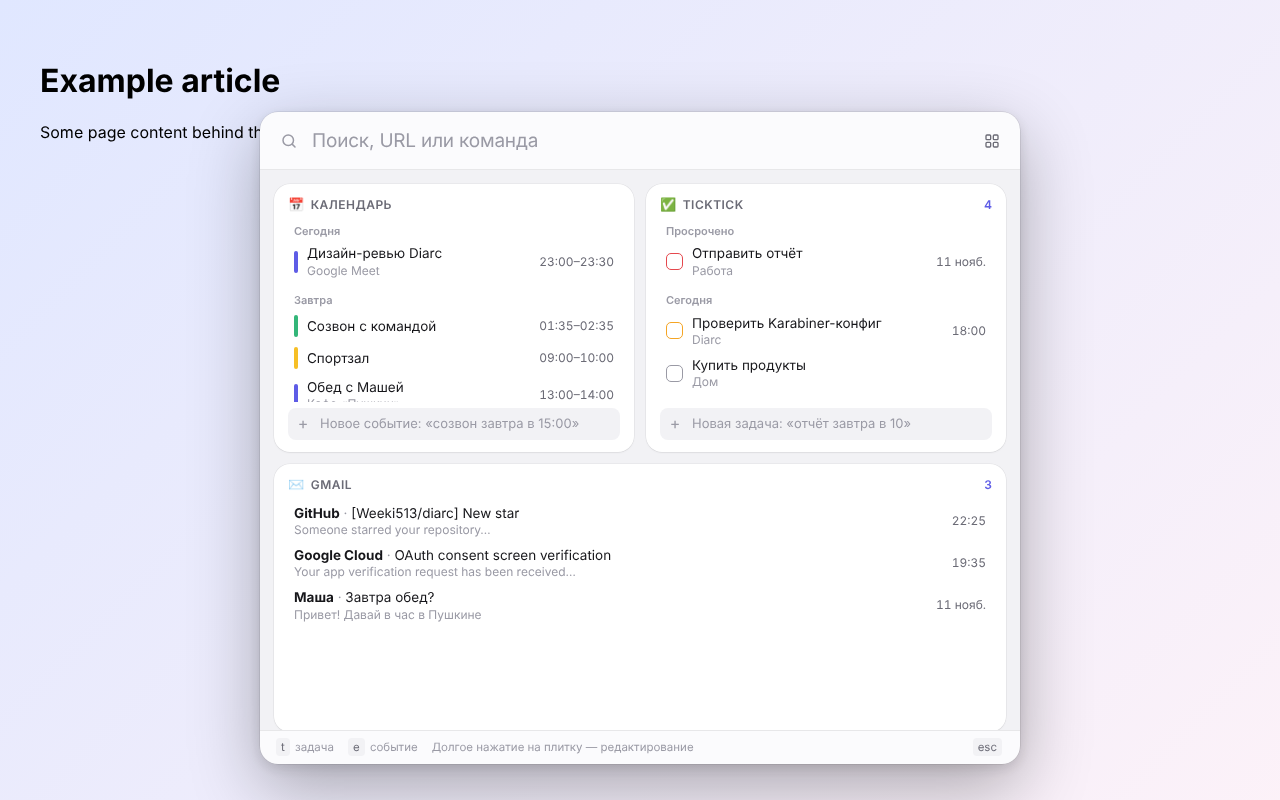
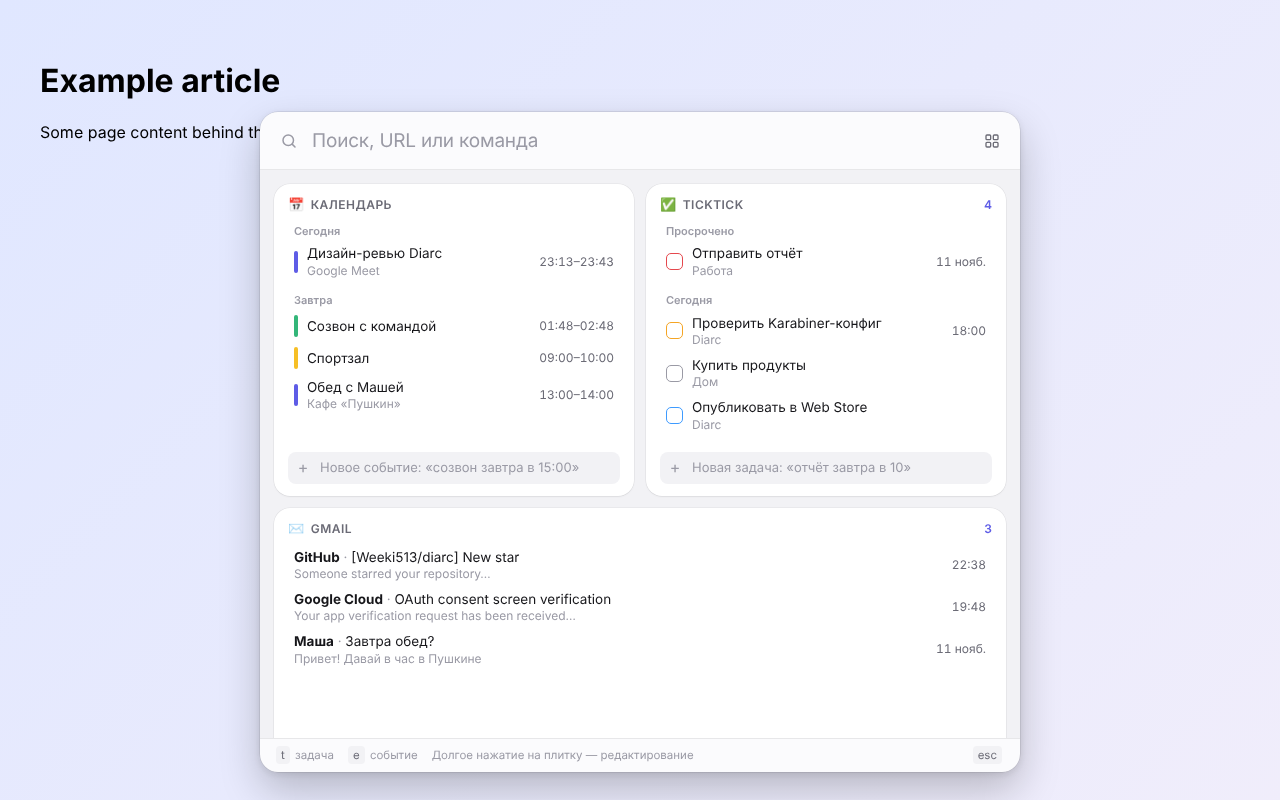
Keep the page scrollable while the bar is open
The overlay iframe now covers only the panel (plus room for its shadow)
instead of the whole viewport; the iframe reports its panel height and the
content script sizes it. Clicks outside the bar close it.

Claude-Session: https://claude.ai/code/session_01DusGhi5FFV57gGQGHy1Vt5

diff --git a/src/ui/styles.css b/src/ui/styles.css
@@ -11,7 +11,7 @@
   --sel: rgba(94, 92, 230, 0.12);
   --accent: #5e5ce6;
   --danger: #e5484d;
-  --shadow: 0 24px 70px rgba(0, 0, 0, 0.3), 0 4px 14px rgba(0, 0, 0, 0.12), 0 0 0 0.5px rgba(0, 0, 0, 0.14);
+  --shadow: 0 18px 40px rgba(0, 0, 0, 0.22), 0 2px 8px rgba(0, 0, 0, 0.1), 0 0 0 0.5px rgba(0, 0, 0, 0.14);
   --tile-shadow: 0 1px 2px rgba(0, 0, 0, 0.05), 0 0 0 0.5px rgba(0, 0, 0, 0.07);
   --r: 18px;
   font: 14px/1.35 -apple-system, BlinkMacSystemFont, 'SF Pro Text', 'Inter', system-ui, sans-serif;
@@ -22,14 +22,14 @@
   .root:not([data-theme='light']) {
     --bg: #1f1f23; --bg-2: #2a2a2f; --tile: #2a2a30; --text: #f2f2f4; --text-2: #a3a3ad; --text-3: #75757f;
     --line: rgba(255, 255, 255, 0.08); --hover: rgba(255, 255, 255, 0.06); --sel: rgba(129, 127, 255, 0.2);
-    --accent: #8b89ff; --shadow: 0 30px 80px rgba(0, 0, 0, 0.55), 0 0 0 0.5px rgba(255, 255, 255, 0.12);
+    --accent: #8b89ff; --shadow: 0 18px 40px rgba(0, 0, 0, 0.5), 0 0 0 0.5px rgba(255, 255, 255, 0.12);
     --tile-shadow: 0 0 0 0.5px rgba(255, 255, 255, 0.08);
   }
 }
 .root[data-theme='dark'] {
   --bg: #1f1f23; --bg-2: #2a2a2f; --tile: #2a2a30; --text: #f2f2f4; --text-2: #a3a3ad; --text-3: #75757f;
   --line: rgba(255, 255, 255, 0.08); --hover: rgba(255, 255, 255, 0.06); --sel: rgba(129, 127, 255, 0.2);
-  --accent: #8b89ff; --shadow: 0 30px 80px rgba(0, 0, 0, 0.55), 0 0 0 0.5px rgba(255, 255, 255, 0.12);
+  --accent: #8b89ff; --shadow: 0 18px 40px rgba(0, 0, 0, 0.5), 0 0 0 0.5px rgba(255, 255, 255, 0.12);
   --tile-shadow: 0 0 0 0.5px rgba(255, 255, 255, 0.08);
 }
 
@@ -47,7 +47,10 @@ code { font: 12px ui-monospace, SFMono-Regular, Menlo, monospace; background: va
 .root.mode-frame { background: transparent; opacity: 0; transition: opacity 0.09s ease-out; }
 .root.mode-frame.shown { opacity: 1; }
 .root.mode-tab { background: var(--bg-2); }
-.root.mode-frame .panel, .root.mode-tab .panel { position: absolute; left: 50%; top: 14vh; width: min(760px, calc(100vw - 32px)); max-height: calc(86vh - 24px);
+.root.mode-tab .panel { position: absolute; left: 50%; top: 14vh; width: min(760px, calc(100vw - 32px)); max-height: calc(86vh - 24px); }
+/* Frame mode: the iframe is only as big as the panel plus room for its shadow, so the page stays
+   scrollable and clickable around it. --page-h is the page's viewport height (sent by the content script). */
+.root.mode-frame .panel { position: absolute; left: 50%; top: 40px; width: min(760px, calc(100vw - 32px)); max-height: calc(var(--page-h, 100vh) * 0.86 - 24px);
   transform: translateX(-50%) scale(0.985); transition: transform 0.12s cubic-bezier(0.2, 0.9, 0.3, 1.2); }
 .root.mode-tab .panel { transform: translateX(-50%); transition: none; }
 .root.mode-frame.shown .panel { transform: translateX(-50%) scale(1); }
@@ -92,7 +95,8 @@ html.popup, html.popup body { width: 760px; height: 580px; overflow: hidden; }
 /* ---------- Tile grid ---------- */
 .home { position: relative; flex: 1; min-height: 0; display: flex; }
 .grid-wrap { flex: 1; overflow-y: auto; padding: 14px; background: var(--bg-2); }
-.mode-tab .grid-wrap, .mode-frame .grid-wrap { max-height: min(560px, calc(86vh - 120px)); }
+.mode-tab .grid-wrap { max-height: min(600px, calc(86vh - 120px)); }
+.mode-frame .grid-wrap { max-height: min(600px, calc(var(--page-h, 100vh) * 0.86 - 120px)); }
 .grid { display: grid; grid-template-columns: repeat(4, minmax(0, 1fr)); grid-auto-rows: 150px; grid-auto-flow: row dense; gap: 12px; }
 .tile { position: relative; background: var(--tile); border-radius: 16px; box-shadow: var(--tile-shadow); min-width: 0; min-height: 0; user-select: none; }
 .tile-body { position: absolute; inset: 0; overflow: hidden; border-radius: inherit; }

diff --git a/src/content/index.ts b/src/content/index.ts
@@ -30,10 +30,11 @@ type W = Window & { __diarc?: boolean };
   let unloadTimer: number | undefined;
 
   const CSS = `
-    :host { all: initial; position: fixed; inset: 0; z-index: 2147483647; display: none; }
-    iframe { position: absolute; inset: 0; width: 100%; height: 100%; border: 0; background: transparent; color-scheme: normal; }
-    .shell { position: absolute; inset: 0; background: transparent; font: 16px -apple-system, BlinkMacSystemFont, "SF Pro Text", system-ui, sans-serif; }
-    .bar { position: absolute; left: 50%; top: 14vh; transform: translateX(-50%); width: min(760px, calc(100vw - 32px)); height: 58px; box-sizing: border-box;
+    :host { all: initial; position: fixed; inset: 0; z-index: 2147483647; display: none; pointer-events: none; }
+    iframe { position: absolute; left: 50%; top: calc(14vh - 40px); transform: translateX(-50%); width: min(880px, 100vw); height: 120px;
+      border: 0; background: transparent; color-scheme: normal; pointer-events: auto; }
+    .shell { position: absolute; inset: 0; background: transparent; pointer-events: none; font: 16px -apple-system, BlinkMacSystemFont, "SF Pro Text", system-ui, sans-serif; }
+    .bar { position: absolute; left: 50%; top: 14vh; transform: translateX(-50%); width: min(760px, calc(100vw - 32px)); height: 58px; box-sizing: border-box; pointer-events: auto;
       border-radius: 18px; background: #fbfbfd; box-shadow: 0 30px 80px rgba(0,0,0,.28), 0 0 0 .5px rgba(0,0,0,.12); }
     .bar input { all: unset; box-sizing: border-box; width: 100%; height: 100%; padding: 0 20px 0 52px; font-size: 19px; color: #111; }
     .bar svg { position: absolute; left: 20px; top: 20px; opacity: .45; }
@@ -51,9 +52,15 @@ type W = Window & { __diarc?: boolean };
     root.append(style);
     // Keep page shortcuts from seeing keys typed into the shell.
     for (const t of ['keydown', 'keyup', 'keypress']) host.addEventListener(t, (e) => e.stopPropagation());
-    host.addEventListener('mousedown', (e) => {
-      if (e.composedPath()[0] === shell) hide();
-    });
+    // The page stays interactive around the bar (scroll, select); a click outside closes it.
+    document.addEventListener(
+      'mousedown',
+      (e) => {
+        if (open && !e.composedPath().includes(host!)) hide();
+      },
+      true,
+    );
+    window.addEventListener('resize', () => open && sendViewport());
     document.documentElement.append(host);
   }
 
@@ -83,12 +90,17 @@ type W = Window & { __diarc?: boolean };
     frame?.contentWindow?.postMessage(msg, ORIGIN);
   }
 
+  function sendViewport(): void {
+    post({ diarc: 'viewport', h: window.innerHeight });
+  }
+
   function reveal(): void {
     const text = shellInput?.value ?? '';
     shell?.remove();
     shell = shellInput = null;
     frame!.style.visibility = 'visible';
     frame!.focus();
+    sendViewport();
     post({ diarc: 'open', text });
   }
 
@@ -127,6 +139,9 @@ type W = Window & { __diarc?: boolean };
       ready = true;
       if (open) reveal();
     } else if (d?.diarc === 'close') hide();
+    else if (d?.diarc === 'size' && typeof (d as { h?: number }).h === 'number') {
+      frame.style.height = `${Math.min((d as { h: number }).h, window.innerHeight)}px`;
+    }
   });
 
   chrome.runtime.onMessage.addListener((msg, _sender, sendResponse) => {

diff --git a/src/ui/App.tsx b/src/ui/App.tsx
@@ -84,12 +84,21 @@ export function App(props: { initial: Snapshot }) {
             input.current?.focus();
             document.querySelector('.grid-wrap')?.scrollTo(0, 0);
           });
+        } else if (e.data?.diarc === 'viewport') {
+          document.documentElement.style.setProperty('--page-h', `${e.data.h}px`);
         } else if (e.data?.diarc === 'hide') {
           setVisible(false);
           reset();
         }
       };
       window.addEventListener('message', onMsg);
+      // Tell the content script how tall the panel is, so the iframe covers only the panel.
+      const panel = document.querySelector('.panel');
+      const ro = new ResizeObserver(() => {
+        const h = (panel as HTMLElement | null)?.offsetHeight ?? 0;
+        parent.postMessage({ diarc: 'size', h: h + 40 + 90 }, '*');
+      });
+      if (panel) ro.observe(panel);
       parent.postMessage({ diarc: 'ready' }, '*');
       return () => window.removeEventListener('message', onMsg);
     }

diff --git a/test/page.html b/test/page.html
@@ -1,6 +1,6 @@
 <!doctype html>
 <html><head><title>Test page — Diarc</title></head>
-<body style="font: 16px system-ui; padding: 40px; background: linear-gradient(135deg,#e0e7ff,#fdf2f8); min-height: 100vh; margin: 0">
+<body style="font: 16px system-ui; padding: 40px; background: linear-gradient(135deg,#e0e7ff,#fdf2f8); min-height: 300vh; margin: 0">
   <h1>Example article</h1>
   <p>Some page content behind the command bar. Pressed keys: <span id="keys"></span></p>
   <script>
